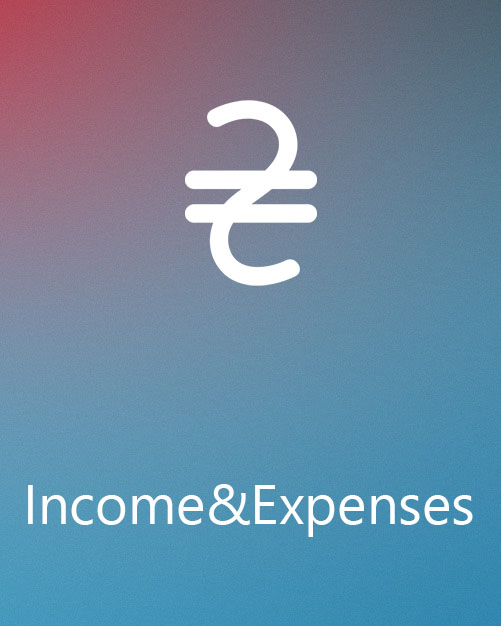
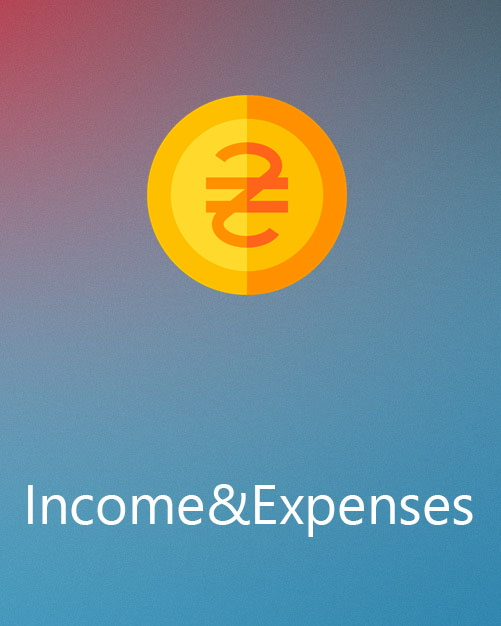
Added IncomeExpenses project page

Changed region(s): [[0.2695, 0.1518, 0.7186, 0.4856]]

diff --git a/projects/incomeexpenses/index.html b/projects/incomeexpenses/index.html
@@ -1,0 +1,56 @@
+<!DOCTYPE HTML>
+<html>
+<head>
+    <title>Income&Expenses | Vadym Verloka</title>
+    <meta charset="utf-8" />
+    <meta name="viewport" content="width=device-width, initial-scale=1, user-scalable=no" />
+    <link rel="stylesheet" href="../../assets/css/main.css" />
+    <meta property="og:title" content="Vadym Verloka" />
+    <meta property="og:url" content="https://verloka.com/" />
+    <meta property="og:description" content="Personal webpage." />
+    <meta property="og:determiner" content="the" />
+    <meta property="og:type" content="website" />
+    <meta property="og:locale" content="en-US" />
+    <meta property="og:locale:alternate" content="uk-UA" />
+    <meta property="og:locale:alternate" content="ru-RU" />
+    <meta property="og:image" content="../../images/og.jpg" />
+</head>
+<body class="is-preload">
+    <div id="page-wrapper">
+        <header id="header"></header>
+        <nav id="menu"></nav>
+
+        <!--content-->
+        <section id="main" class="wrapper style2">
+            <div class="inner">
+                <header class="major special">
+                    <h1>Income&Expenses</h1>
+                    <p>Easy to use the Budget Planner</p>
+                </header>
+                <a href="#" class="image main"><img src="../../images/app/incexp.jpg" alt="" /></a>
+                <p>
+                    Allows you to control costs, keep track of income, save purchase history in the form of expenses. It is also possible to compare different items of expenses or income with similar ones for different periods.
+                    Allows you to keep history for more than one year. Shows the current state of balance.
+                    This application stores its data in your OneDrive cloud. This allows you to use the application on different devices on Windows and synchronize data between them.
+                </p>
+
+                <center><a href="https://www.microsoft.com/store/apps/9PH2MP1W0138"><img src="../../images/windows-store-button.png" alt="" width="256"></a></center>
+
+            </div>
+        </section>
+
+        <div id="BotomContent"></div>
+    </div>
+
+    <!-- Scripts -->
+    <script src="../../assets/js/jquery.min.js"></script>
+    <script src="../../assets/js/loader.js"></script>
+    <script src="../../assets/js/jquery.scrollex.min.js"></script>
+    <script src="../../assets/js/jquery.scrolly.min.js"></script>
+    <script src="../../assets/js/jquery.selectorr.min.js"></script>
+    <script src="../../assets/js/browser.min.js"></script>
+    <script src="../../assets/js/breakpoints.min.js"></script>
+    <script src="../../assets/js/util.js"></script>
+    <script src="../../assets/js/main.js"></script>
+</body>
+</html>

diff --git a/portfolio/index.html b/portfolio/index.html
@@ -37,7 +37,7 @@
 							<a href="https://verloka.com/projects/exchange/"><img src="../images/app/ex.jpg" alt="Exchange CMS" /></a>
                             <a href="https://jpassword.pp.ua/"><img src="../images/app/jp.jpg" alt="Jesus Password" /></a>
                             <a href="https://verloka.com/projects/wallpaper/"><img src="../images/app/wc.jpg" alt="Wallpaper Changer" /></a>
-                            <a href="https://income.pp.ua/"><img src="../images/app/ie.jpg" alt="Income&Expenses" /></a>
+                            <a href="https://verloka.com/projects/incomeexpenses/"><img src="../images/app/ie.jpg" alt="Income&Expenses" /></a>
 							<a href="https://verloka.com/projects/happyfarm/"><img src="../images/app/slhf.jpg" alt="Swipe Land - Happy Farm" /></a>
                         </div>
                     </li>
@@ -53,9 +53,9 @@
                         <h3>Non commercial</h3>
                         <div class="gallery">
 							<a href="https://verloka.com/projects/exchange/"><img src="../images/app/ex.jpg" alt="Exchange CMS" /></a>
-							<a href="https://income.pp.ua/"><img src="../images/app/ie.jpg" alt="Income&Expenses" /></a>
+							<a href="https://verloka.com/projects/incomeexpenses/"><img src="../images/app/ie.jpg" alt="Income&Expenses" /></a>
                             <a href="https://jpassword.pp.ua/"><img src="../images/app/jp.jpg" alt="Jesus Password" /></a>
-							<a href="https://changer.pp.ua/"><img src="../images/app/wc.jpg" alt="Wallpaper Changer" /></a>
+							<a href="https://verloka.com/projects/wallpaper/"><img src="../images/app/wc.jpg" alt="Wallpaper Changer" /></a>
 							<a href="https://verloka.com/projects/happyfarm/"><img src="../images/app/slhf.jpg" alt="Swipe Land - Happy Farm" /></a>
                         </div>
                     </li>
